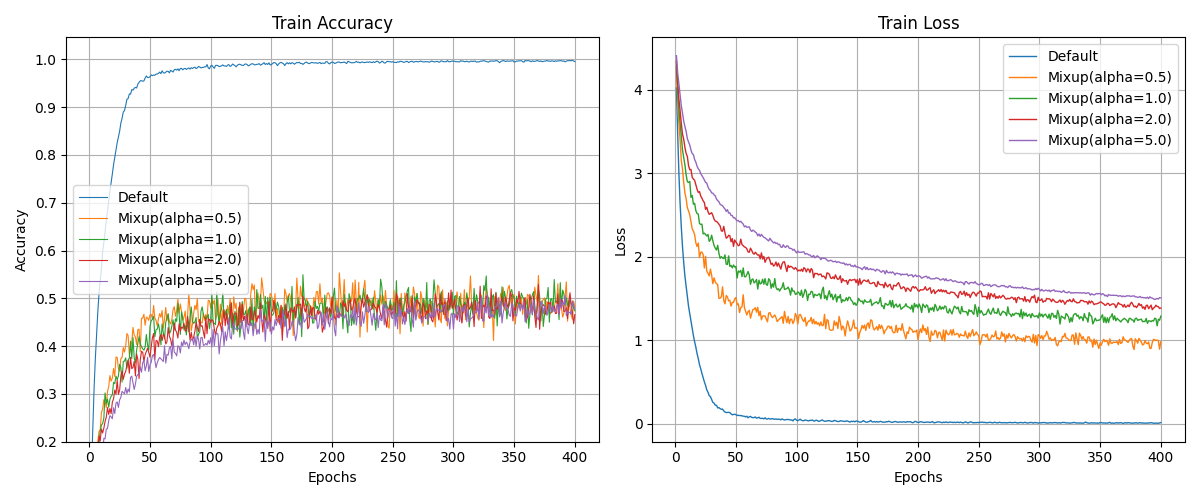
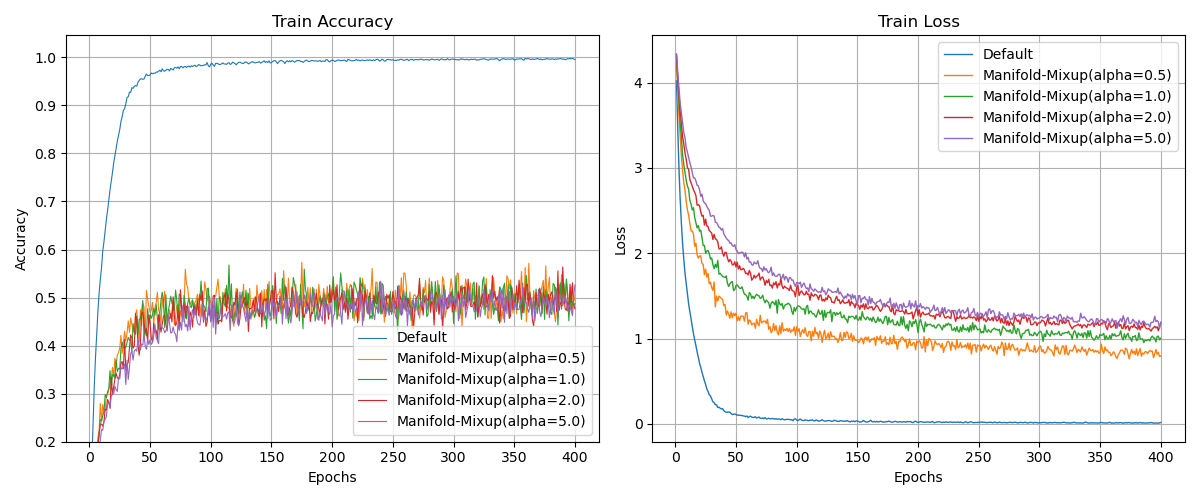
EntAugment alpha_max=1.0

diff --git a/src/utils.py b/src/utils.py
@@ -61,7 +61,7 @@ def ent_augment_mixup(x, y, model, alpha_max, num_classes, eps=1e-8):
     y_a = y
     y_b = y2
 
-    return mixed_x, y_a, y_b, lam
+    return mixed_x, y_a, y_b, lam, alpha
 
 class FixedAugmentedDataset(Dataset):
     def __init__(self, base_dataset, random_transform):
@@ -155,6 +155,7 @@ def train(model, train_loader, criterion, optimizer, device, augment, num_classe
     model.train()
     train_loss = 0.0
     train_acc  = 0.0
+    history = {"alpha": []}
 
     batch_idx = 0
     for images, labels in tqdm(train_loader, leave=False):
@@ -168,15 +169,16 @@ def train(model, train_loader, criterion, optimizer, device, augment, num_classe
             #     visualize_batch(epochs, images, labels, augment, n=10)
         
         elif augment == "Ent-Mixup":
-            images, y_a, y_b, lam = ent_augment_mixup(
+            images, y_a, y_b, lam, alpha = ent_augment_mixup(
                 x=images,
                 y=labels,
                 model=model,
-                alpha_max=2.0,     # 例: 1.0
+                alpha_max=1.0,     # 例: 1.0
                 num_classes=num_classes
             )
             preds = model(images, labels, device, augment, aug_ok)
             loss  = mixup_criterion(criterion, preds, y_a, y_b, lam)
+            history["alpha"].append(alpha)
         
         elif augment == "Mixup(alpha=0.5)":
             images, y_a, y_b, lam = mixup_data(images, labels, 0.5, device)
@@ -286,6 +288,9 @@ def train(model, train_loader, criterion, optimizer, device, augment, num_classe
             else:
                 preds = model(images, labels, device, augment, aug_ok=True)
                 loss  = criterion(preds, labels)
+        
+        with open(f"./history/alpha_cifar100.pickle", "wb") as f:
+            pickle.dump(history, f)
 
         batch_idx += 1
         optimizer.zero_grad()

diff --git a/print_acc.py b/print_acc.py
@@ -6,8 +6,10 @@ pickle_file_path = f'./history/wide_resnet_28_10/Mixup(alpha=0.5)/cifar100_400_0
 with open(pickle_file_path, 'rb') as f:
     dic = pickle.load(f)
 
-for i in range(400):
-    val_acc = dic["val_accuracy"][i]
-    val_loss = dic["val_loss"][i]
+for epoch in range(400):
+    train_acc = dic["accuracy"][epoch]
+    train_loss = dic["loss"][epoch]
+    val_acc = dic["val_accuracy"][epoch]
+    val_loss = dic["val_loss"][epoch]
 #    if val_acc >= 0.64:
-    print(i+1, ": ", val_acc, val_loss)
+    print(f"| {epoch+1} | Train loss: {train_loss:.3f} | Train acc: {train_acc:.3f} | Val loss: {val_loss:.3f} | Val acc: {val_acc:.3f} |")

diff --git a/result.py b/result.py
@@ -19,14 +19,14 @@ def main():
     
     augmentations = [
         "Default",
-        "Mixup(alpha=0.5)",
-        "Mixup",
-        "Mixup(alpha=2.0)",
-        "Mixup(alpha=5.0)",
-        # "Manifold-Mixup(alpha=0.5)",
-        # "Manifold-Mixup(alpha=1.0)",
-        # "Manifold-Mixup",
-        # "Manifold-Mixup(alpha=5.0)",
+        # "Mixup(alpha=0.5)",
+        # "Mixup",
+        # "Mixup(alpha=2.0)",
+        # "Mixup(alpha=5.0)",
+        "Manifold-Mixup(alpha=0.5)",
+        "Manifold-Mixup(alpha=1.0)",
+        "Manifold-Mixup",
+        "Manifold-Mixup(alpha=5.0)",
 
         # "Mixup-Curriculum",
 
